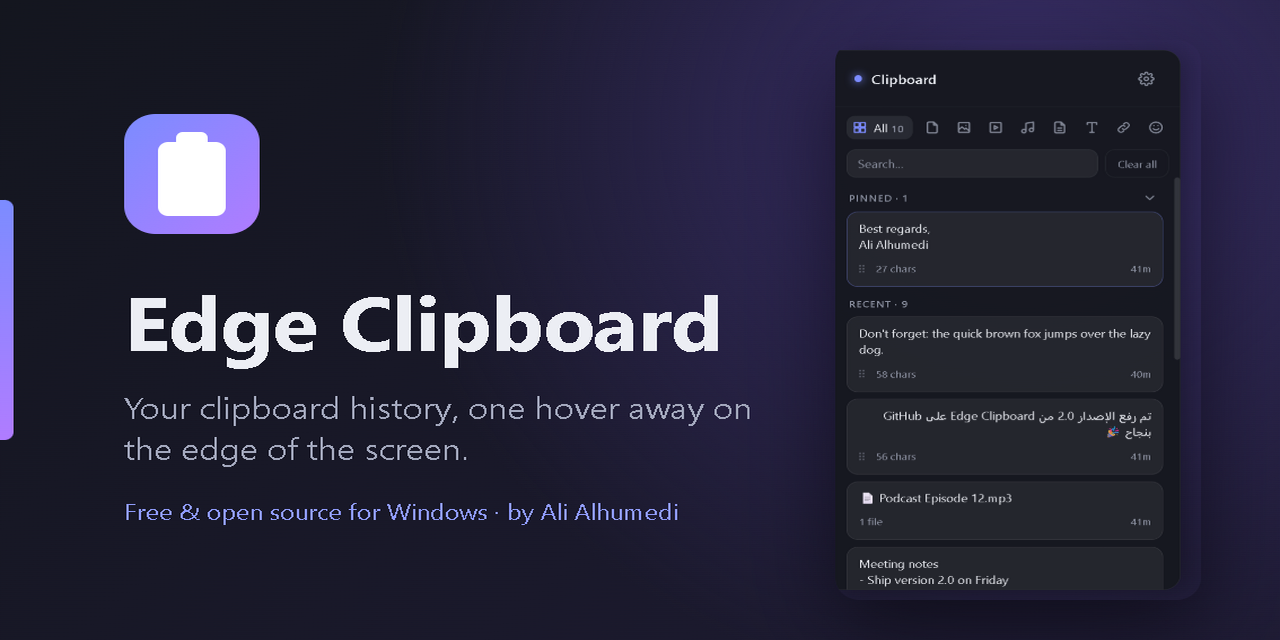
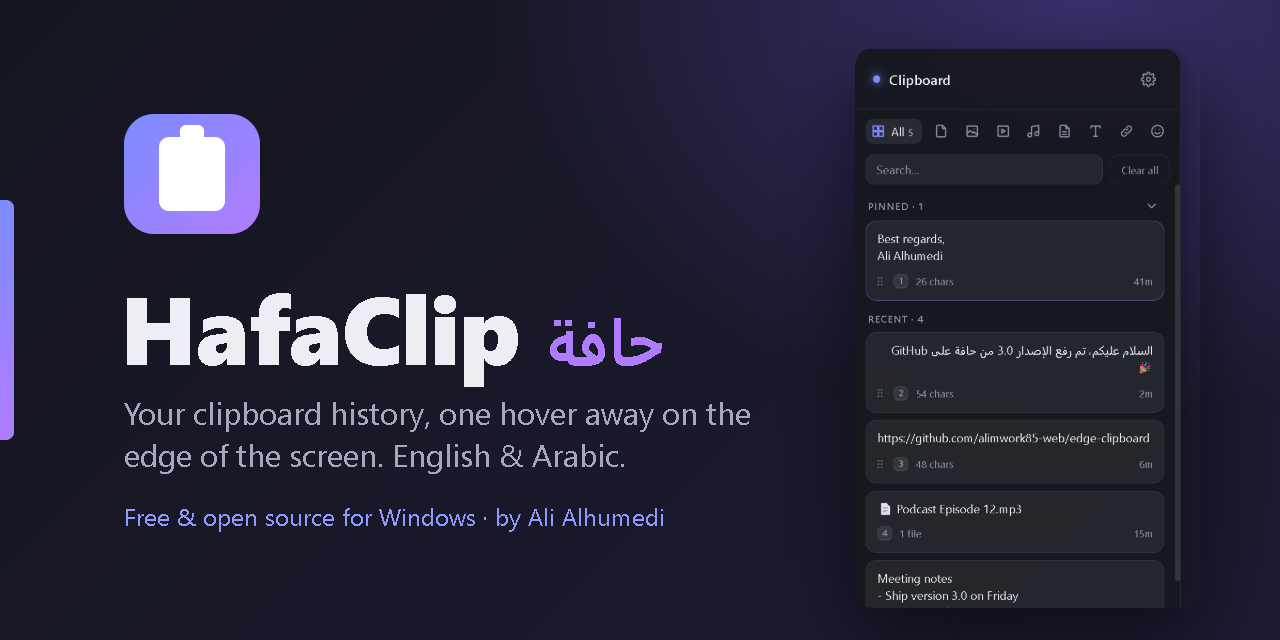
Release 3.0.0: README in English then Arabic, feedback and contributing section, size chart, new social preview, app name and developer in settings

diff --git a/src/renderer/src/SettingsPanel.jsx b/src/renderer/src/SettingsPanel.jsx
@@ -2,6 +2,7 @@ import { useEffect, useState } from 'react'
 import { HANDLE_COLORS, PANEL_WIDTHS } from './hotZone'
 import { t } from './i18n'
 import { pruneItems } from '../../main/history'
+import { version } from '../../../package.json'
 
 const DELAYS = { 0: 'instant', 300: 'short', 600: 'long' }
 // The font names show in their own font, so the choice previews itself.
@@ -150,6 +151,8 @@ export default function SettingsPanel({ lang, settings, items, onChange }) {
           ))}
         </div>
       </div>
+
+      <p className="about" dir="ltr">HafaClip {version} · Ali Alhumedi</p>
     </div>
   )
 }

diff --git a/src/renderer/src/styles.css b/src/renderer/src/styles.css
@@ -324,3 +324,6 @@ kbd {
 
 /* Alt+1…9 quick-paste number on the first cards. */
 .card footer kbd.number { font-size: 10px; padding: 0 5px; color: var(--muted); font-variant-numeric: tabular-nums; }
+
+/* App name, version and developer at the bottom of the settings. */
+.settings .about { margin-top: auto; padding-top: 16px; text-align: center; font-size: 11px; color: var(--muted); }

diff --git a/README.md b/README.md
@@ -7,8 +7,13 @@
   <img src="https://img.shields.io/badge/platform-Windows%2010%20%7C%2011-0078d4?style=flat-square&logo=windows" alt="Windows 10 | 11">
   <a href="LICENSE"><img src="https://img.shields.io/github/license/alimwork85-web/edge-clipboard?style=flat-square&color=b07cff" alt="MIT license"></a>
   <a href="https://github.com/alimwork85-web/edge-clipboard/releases"><img src="https://img.shields.io/github/downloads/alimwork85-web/edge-clipboard/total?style=flat-square&color=34d399" alt="Downloads"></a>
+  <img src="https://img.shields.io/badge/interface-English%20%7C%20%D8%A7%D9%84%D8%B9%D8%B1%D8%A8%D9%8A%D8%A9-f59e0b?style=flat-square" alt="English | العربية">
   <img src="https://img.shields.io/badge/built%20with-Electron-47848f?style=flat-square&logo=electron" alt="Built with Electron">
 </p>
+
+<p align="center"><a href="#english">English</a> · <a href="#arabic">العربية</a></p>
+
+<a id="english"></a>
 
 **HafaClip** (حافة, Arabic for *edge*; formerly Edge Clipboard) is a free, open-source clipboard manager for Windows. It hides as a thin line on the edge of your screen; move the mouse there (or press <kbd>Ctrl</kbd>+<kbd>Alt</kbd>+<kbd>E</kbd>) and your clipboard history slides out. Everything stays on your computer.
 
@@ -19,18 +24,18 @@
 ## Features
 
 - **Lives on the screen edge**: hover the handle to open, move away to close. Left or right edge, your choice.
-- **Keyboard shortcut**: <kbd>Ctrl</kbd>+<kbd>Alt</kbd>+<kbd>E</kbd> opens and closes the panel from anywhere; <kbd>Esc</kbd> closes it.
-- **Captures everything**: text, images and files (every file of a multi-file copy).
+- **Keyboard first**: <kbd>Ctrl</kbd>+<kbd>Alt</kbd>+<kbd>E</kbd> (or your own shortcut) opens the panel with the cursor in search; type to filter, <kbd>↑</kbd> <kbd>↓</kbd> to move between cards, <kbd>Enter</kbd> to paste, <kbd>Alt</kbd>+<kbd>1</kbd>…<kbd>9</kbd> to paste a numbered card, <kbd>Esc</kbd> to close.
+- **Captures everything**: text, images and files (every file of a multi-file copy). Each kind can be turned off.
+- **Respects password managers**: copies that KeePass, Bitwarden, 1Password and others mark as sensitive are never saved.
 - **Tabs by type**: All, Files, Images, Videos, Audio, Docs, Text, Links and Emoji, each with its count.
-- **Up to 1000 items**, oldest dropped first. **Pinned items are kept forever** and can be hidden with one click.
+- **History you control**: keep 250, 500, 750 or 1000 items, optionally auto-delete after 30 or 40 days. **Pinned items are kept forever.**
 - **Paste straight into the app you were using**, or just copy with a click.
-- **Copy part of a text**: select any words in a card and copy only them; they become a new item.
-- **Compact cards**: long text shows 3 lines with **More / Less**.
-- **Drag and drop** items out to other apps, or drop files and text onto the panel to keep them.
-- **Merge** several items into one group and **split** it back.
-- **Emoji picker** with categories, search and recent emoji.
-- **Arabic and mixed text** shown in the right direction; search ignores diacritics and hamza forms.
-- **Customisable handle**: length, thickness and 9 colours. Light and dark mode follow Windows.
+- **Paste as…**: Western digits (٠١٢ → 012) or without Arabic diacritics, without changing the saved item.
+- **Fix keyboard layout**: turn `hgsghl ugd;l` into «السلام عليكم» (and back) with one click.
+- **Copy part of a text**, **drag and drop** in and out, **merge** several items into one and **split** them back.
+- **Emoji picker** with categories, recent emoji and search in English or Arabic.
+- **English and Arabic interface** (follows Windows, or pick one), with right-to-left layout and Arabic-aware search that ignores diacritics, hamza forms and ة/ه.
+- **Make it yours**: 5 themes, 4 fonts (including Cairo, Tajawal and IBM Plex Sans Arabic), text size, density, panel width, open delay, and the handle's length, thickness and colour.
 - **Starts with Windows** (can be turned off from the tray icon) and pauses capturing on demand.
 
 ## Screenshots
@@ -57,7 +62,9 @@
 |---|---|
 | Open the panel | Hover the handle on the screen edge, or press <kbd>Ctrl</kbd>+<kbd>Alt</kbd>+<kbd>E</kbd> |
 | Copy an item | Click its card |
-| Paste into the previous app | Hover a card → ↩ button, or press <kbd>Enter</kbd> on it |
+| Paste into the previous app | <kbd>Enter</kbd> on a card, <kbd>Alt</kbd>+<kbd>1</kbd>…<kbd>9</kbd>, or hover a card → ↩ button |
+| Paste with Western digits / without diacritics | Hover a text card → ⋯ button |
+| Fix text typed in the wrong keyboard language | Hover a text card → ⇄ button (adds the fixed text as a new item) |
 | Copy part of a text | Select the words → **Copy selection** (or <kbd>Ctrl</kbd>+<kbd>C</kbd>) |
 | Pin / unpin | Hover a card → 📌 button |
 | Merge items | <kbd>Ctrl</kbd>+click cards → **Merge** |
@@ -65,9 +72,28 @@
 | Settings | ⚙ button in the panel header |
 | Pause capturing, quit | Right- or left-click the tray icon |
 
+## Smaller download
+
+Version 3.0.0 ships only the English and Arabic language files of Chromium and compresses harder:
+
+<p align="center">
+  <img src="assets/size-chart.svg" alt="Installer 107.8 MB to 99.7 MB, installed 360 MB to 313 MB" width="640">
+</p>
+
 ## Privacy
 
 HafaClip makes **no network connections**. History is stored only on your PC in `%APPDATA%\edge-clipboard` (`items.json` plus an `images` folder). Uninstalling the app does not delete that folder, so remove it yourself if you want the history gone.
+
+## Feedback and contributing
+
+Feedback is very welcome, and so is help:
+
+- **Found a bug or something confusing?** [Open an issue](https://github.com/alimwork85-web/edge-clipboard/issues/new) with what you did, what you expected and what happened (a screenshot helps).
+- **Have an idea or a suggestion?** Open an issue and describe it; small or big, all ideas are read.
+- **Want to help build it?** Pull requests are welcome: fixes, features, translations to more languages, docs or design. For anything large, open an issue first so we can agree on the approach.
+- **Like it?** A ⭐ on the repo and sharing it with friends helps others find it.
+
+Messages in English or Arabic are both fine.
 
 ## Build from source
 
@@ -83,7 +109,59 @@ npm start          # run the app
 npm run dist       # build the Windows installer into dist/
 ```
 
-Built with [Electron](https://www.electronjs.org), [React](https://react.dev), [electron-vite](https://electron-vite.org), [koffi](https://koffi.dev) for Win32 clipboard calls and [emojibase-data](https://emojibase.dev) for emoji names.
+Built with [Electron](https://www.electronjs.org), [React](https://react.dev), [electron-vite](https://electron-vite.org), [koffi](https://koffi.dev) for Win32 clipboard calls, [emojibase-data](https://emojibase.dev) for emoji, [Unicode CLDR](https://cldr.unicode.org) for Arabic emoji names, and the [Cairo](https://github.com/Gue3bara/Cairo), [Tajawal](https://fonts.google.com/specimen/Tajawal) and [IBM Plex Sans Arabic](https://github.com/IBM/plex) fonts (SIL Open Font License).
+
+---
+
+<a id="arabic"></a>
+
+<div dir="rtl">
+
+## العربية
+
+**حافة (HafaClip)**، واسمه السابق Edge Clipboard، مدير حافظة مجاني ومفتوح المصدر لنظام Windows. يختبئ كخط رفيع على حافة الشاشة؛ حرّك الفأرة إليه (أو اضغط <kbd>Ctrl</kbd>+<kbd>Alt</kbd>+<kbd>E</kbd>) فينزلق لك سجل كل ما نسخته. كل شيء يبقى على جهازك.
+
+### المزايا
+
+- **يعيش على حافة الشاشة**: مرّر الفأرة على المقبض ليفتح، وابتعد ليُغلق. الحافة اليسرى أو اليمنى، حسب اختيارك.
+- **لوحة المفاتيح أولًا**: <kbd>Ctrl</kbd>+<kbd>Alt</kbd>+<kbd>E</kbd> (أو اختصارك الخاص) يفتح اللوحة والمؤشر في البحث؛ اكتب للتصفية، و<kbd>↑</kbd> <kbd>↓</kbd> للتنقّل بين البطاقات، و<kbd>Enter</kbd> للصق، و<kbd>Alt</kbd>+<kbd>1</kbd>…<kbd>9</kbd> للصق البطاقة المرقّمة، و<kbd>Esc</kbd> للإغلاق.
+- **يلتقط كل شيء**: النصوص والصور والملفات (كل ملف عند نسخ عدة ملفات). ويمكن إيقاف أي نوع منها.
+- **يحترم مديري كلمات المرور**: ما ينسخه KeePass وBitwarden و1Password وغيرها ويُعلَّم كسرّي لا يُحفظ أبدًا.
+- **تبويبات حسب النوع**: الكل، الملفات، الصور، الفيديو، الصوت، المستندات، النصوص، الروابط، الإيموجي، ولكل منها عدده.
+- **سجل تتحكّم فيه**: احتفظ بـ 250 أو 500 أو 750 أو 1000 عنصر، مع حذف تلقائي اختياري بعد 30 أو 40 يومًا. **العناصر المثبّتة تبقى دائمًا.**
+- **الصق مباشرة في البرنامج الذي كنت تعمل فيه**، أو انسخ بنقرة.
+- **لصق بعد تحويل**: بأرقام غربية (٠١٢ ← 012) أو بدون تشكيل، دون تغيير العنصر المحفوظ.
+- **تصحيح لغة الكيبورد**: حوّل `hgsghl ugd;l` إلى «السلام عليكم» (والعكس) بنقرة.
+- **نسخ جزء من النص**، و**السحب والإفلات** من اللوحة وإليها، و**دمج** عدة عناصر في عنصر واحد ثم **فصلها**.
+- **منتقي إيموجي** بفئات وأحدث المستخدم، وبحث بالعربية أو الإنجليزية.
+- **واجهة عربية وإنجليزية** (تتبع لغة Windows أو تختار بنفسك)، باتجاه من اليمين لليسار، وبحث يفهم العربية فيتجاهل التشكيل وأشكال الهمزة والفرق بين ة وه.
+- **اجعله على ذوقك**: 5 سمات، و4 خطوط (منها القاهرة وتجوال وIBM Plex Sans Arabic)، وحجم النص، والكثافة، وعرض اللوحة، ومهلة الفتح، وطول المقبض وسماكته ولونه.
+- **يعمل مع بدء Windows** (يمكن إيقاف ذلك من أيقونة شريط المهام)، ويمكن إيقاف الالتقاط مؤقتًا.
+
+### التثبيت
+
+1. نزّل **`HafaClip Setup x.y.z.exe`** من [آخر إصدار](https://github.com/alimwork85-web/edge-clipboard/releases/latest).
+2. شغّله. يُثبَّت لحسابك فقط (بلا صلاحيات مدير) ويضيف **HafaClip** إلى قائمة ابدأ. تثبيته فوق Edge Clipboard يحافظ على سجلك وإعداداتك.
+3. يظهر المقبض على الحافة اليسرى من الشاشة، ويعمل التطبيق مع بدء Windows من الآن.
+
+> المثبّت غير موقّع رقميًا، لذلك قد يحذّرك Windows SmartScreen في المرة الأولى. اختر **مزيد من المعلومات ← التشغيل على أي حال**.
+
+### الخصوصية
+
+حافة **لا يتصل بالإنترنت أبدًا**. يُحفظ السجل على جهازك فقط في `%APPDATA%\edge-clipboard`. إلغاء التثبيت لا يحذف هذا المجلد، فاحذفه بنفسك إن أردت مسح السجل.
+
+### ملاحظاتك ومشاركتك مرحّب بها
+
+يسعدني سماع رأيك، ويسعدني أكثر أن تشاركني:
+
+- **وجدت مشكلة أو شيئًا غير واضح؟** [افتح بلاغًا (Issue)](https://github.com/alimwork85-web/edge-clipboard/issues/new) واذكر ما فعلت، وما توقعت، وما حدث (صورة الشاشة تساعد كثيرًا).
+- **عندك فكرة أو اقتراح؟** افتح بلاغًا واشرحه؛ كل فكرة تُقرأ، صغيرة كانت أو كبيرة.
+- **تريد المساعدة في التطوير؟** طلبات الدمج (Pull requests) مرحّب بها: إصلاحات، أو مزايا، أو ترجمة لغات أخرى، أو توثيق، أو تصميم. وللتغييرات الكبيرة افتح بلاغًا أولًا لنتفق على الطريقة.
+- **أعجبك؟** نجمة ⭐ للمستودع ومشاركته مع أصدقائك تساعد غيرك على الوصول إليه.
+
+يمكنك الكتابة بالعربية أو الإنجليزية.
+
+</div>
 
 ## License
 
